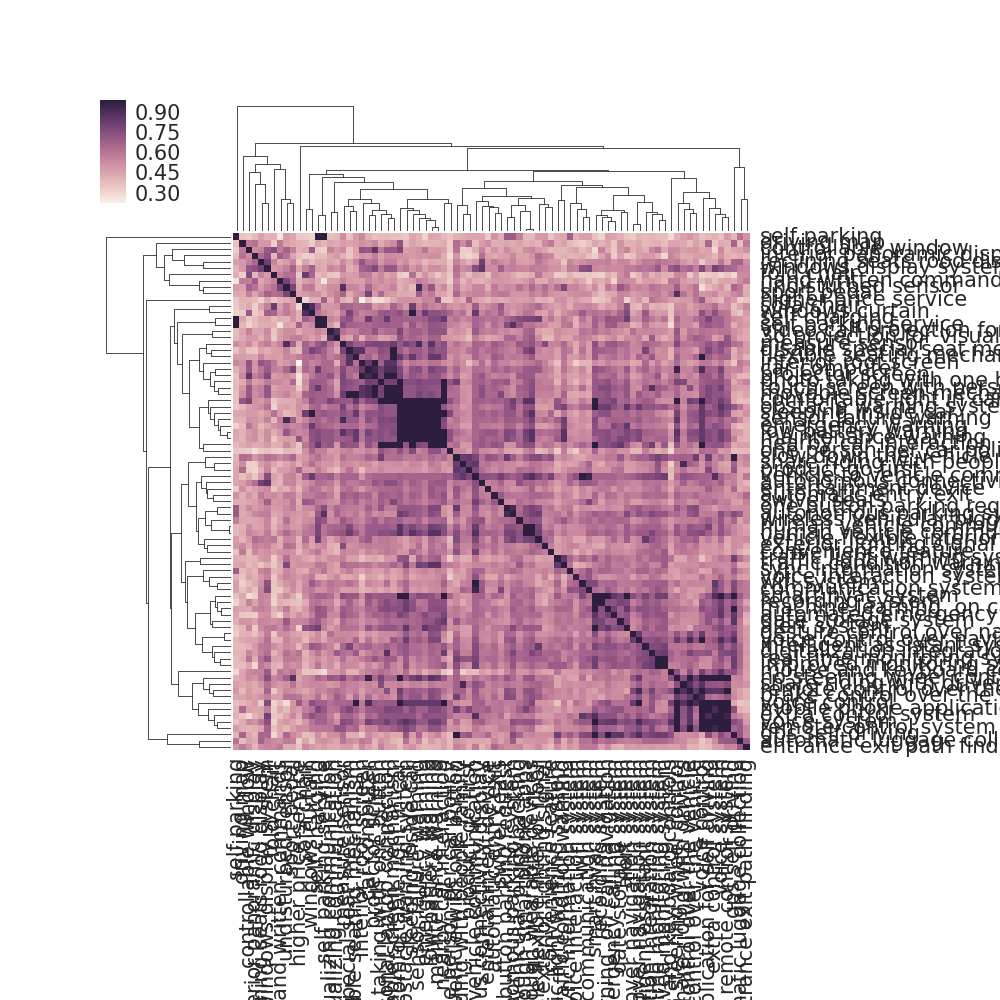
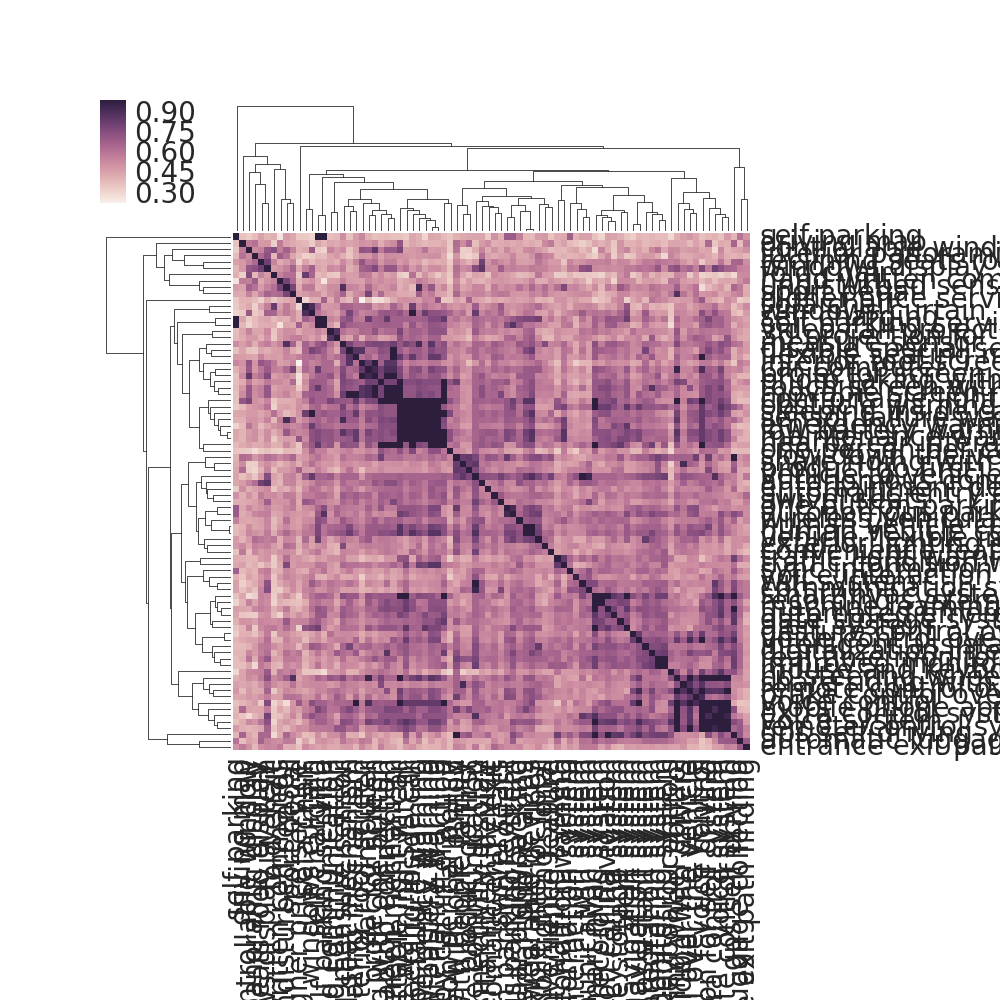
For the first draft withouth overlapping cluster

Changed region(s): [[0.217, 0.217, 1.0, 1.0], [0.124, 0.093, 0.217, 0.217]]

diff --git a/PlotBubble.py b/PlotBubble.py
@@ -70,6 +70,112 @@ def plotBubble(xindices, yindices, labels, xticklabels = None, yticklabels = Non
 	plt.axes().set_aspect('equal')
 	# plt.show()
 
+def plotSimpifiedBubble(xindices, yindices, labels, xticklabels = None, yticklabels = None, offset = 0.25, sort = False, xFilteredStr = None, yFilteredStr = None, showLabel = True, team_number = None):
+	assert len(xindices) == len(yindices)
+	if sort:
+		convx, convy = get_sorted_idx(xindices, yindices)
+		xindices = [convx[x] for x in xindices]
+		yindices = [convy[y] for y in yindices]
+
+		if xticklabels is not None:
+			xticklabels_ = xticklabels[:]
+			for i,tl in enumerate(xticklabels): xticklabels_[convx[i]] = tl
+			xticklabels = xticklabels_
+		if yticklabels is not None:
+			yticklabels_ = yticklabels[:]
+			for i,tl in enumerate(yticklabels): yticklabels_[convy[i]] = tl
+			yticklabels = yticklabels_
+
+	sns.set()
+	sns.set_style("darkgrid")
+	plt.figure(figsize=(9, 9))  # in inches
+
+	nx = max(xindices)+1
+	ny = max(yindices)+1
+	cnt = np.zeros([nx, ny])
+
+	xticklabels_ = [""]*len(xticklabels)
+	yticklabels_ = [""]*len(yticklabels)
+
+	if xFilteredStr != None:
+		try:
+			xFilteredIndex = xticklabels.index(xFilteredStr)
+		except Exception as e:
+			raise e
+
+		for x, y in zip(xindices, yindices): 
+			if x == xFilteredIndex:
+				cnt[x,y] += 1
+				xticklabels_[x] = xticklabels[x]
+				yticklabels_[y] = yticklabels[y]
+				
+				
+		xticklabels = xticklabels_
+		yticklabels = yticklabels_
+		
+
+	if yFilteredStr != None:
+		try:
+			yFilteredIndex = yticklabels.index(yFilteredStr)
+		except Exception as e:
+			raise e
+
+		for x, y in zip(xindices, yindices): 
+			if y == yFilteredIndex:
+				cnt[x,y] += 1
+				xticklabels_[x] = xticklabels[x]
+				yticklabels_[y] = yticklabels[y]
+		xticklabels = xticklabels_
+		yticklabels = yticklabels_
+
+	for x in range(nx):
+		for y in range(ny):
+			if cnt[x,y] != 0:
+				idx = [i for i,pos in enumerate(zip(xindices, yindices)) if pos[0]==x and pos[1]==y]
+				labels2draw = [labels[i] for i in idx]
+				angles = np.linspace(-np.pi/2, np.pi/2, num=len(labels2draw)+1)
+
+				plt.scatter(x,y,s=cnt[x,y]*400,c=sns.xkcd_rgb["denim blue"],alpha=0.5)
+
+				if showLabel:
+
+					if len(labels2draw)<2: r = 0
+					else:                  r = offset
+
+					for l, a in zip(labels2draw, angles):
+						# import pdb; pdb.set_trace()
+						x_ = x + np.cos(a)*r
+						y_ = y + np.sin(a)*r
+						plt.scatter(x_, y_,c=sns.xkcd_rgb["pale red"])
+						plt.annotate(l,
+							 xy=(x_, y_),
+							 xytext=(5, 2),
+							 textcoords='offset points',
+							 ha='right',
+							 va='bottom')
+	ax = plt.gca()
+	ax.set_xticks(range(nx))
+	ax.set_yticks(range(ny))
+
+	fig = plt.gcf()
+	fig.subplots_adjust(left=0.2)
+	if team_number != None:
+		fig.suptitle('Team ' + str(team_number),fontsize=20)
+
+	if showLabel:
+		if xticklabels is not None:
+			# ax.set_xticklabels(xticklabels, rotation=20, ha='right')
+			ax.set_xticklabels(xticklabels)
+		if yticklabels is not None:
+			ax.set_yticklabels(yticklabels)
+	else:
+		ax.set_xticklabels([""]*len(xticklabels))
+		ax.set_yticklabels([""]*len(yticklabels))
+
+	# plt.grid()
+	plt.xlabel("Hand-operated Clustering")
+	plt.ylabel("Machine Clustering")
+	plt.axes().set_aspect('equal')
 
 def get_sorted_idx(xindices, yindices):
 	nx = max(xindices)+1
@@ -106,7 +212,9 @@ def main():
 	h_labels_index = [0, 0, 0, 0, 0, 1, 2, 3, 3, 4, 0, 0, 1, 1, 5, 5, 6, 7, 3, 8, 0, 1, 9, 2, 10, 7, 7, 7, 8, 11, 0, 0, 0, 4, 4, 11, 10, 10, 12, 12, 13, 13, 13, 1, 2, 13, 13, 7, 13, 13, 13, 7, 0, 1, 9, 2, 7, 3, 8, 8, 11, 14, 0, 9, 2, 2, 5, 4, 8, 8, 14, 14, 10, 13, 13, 13, 13, 13, 7, 7, 7, 13]
 	h_labels = ['ALTERNATIVE CONTROL', 'CAR-TO-CAR CONNECTIVITY', 'COMFORT', 'NAVIGATION', 'PARKING', 'ENTRY & EXIT', 'EXTERNAL SIGNAL', 'LEISURE & ENTERTAINMENT', 'SCREEN & DISPLAYS', 'CLOUD TECHNOLOGY', 'IN-CAR COMMUNICATION', 'VOICE PROGRAM', 'PORTABLE DEVICE CONNECTIVITY', 'SAFETY', 'WARNING SYSTEM']
 	concept = range(len(m_labels_index))
-	plotBubble(h_labels_index,m_labels_index,concept,h_labels,m_labels,sort=True)
+	# plotBubble(h_labels_index,m_labels_index,concept,h_labels,m_labels,sort=True)
+	plotSimpifiedBubble(h_labels_index,m_labels_index,concept,h_labels,m_labels,xFilteredStr='COMFORT',showLabel=True,team_number=1)
+	# plotSimpifiedBubble(h_labels_index,m_labels_index,concept,h_labels,m_labels,yFilteredStr='use;projection',showLabel=True)
 	plt.show()
 
 def test():
@@ -118,4 +226,4 @@ def test():
 
 
 if __name__ == '__main__':
-	test()
+	main()

diff --git a/Main.py b/Main.py
@@ -84,7 +84,7 @@ class SWSCTester(object):
 
 		concept_index = range(1,len (concept_list)+1)
 
-		exportHM(concept_index,cm.concept_category_list, concept_labels, concept_list, "Human_machine_details_Team"+str(number))
+		# exportHM(concept_index,cm.concept_category_list, concept_labels, concept_list, "Human_machine_details_Team"+str(number))
 		exportHM2(cm.conceptList,concept_labels,"Human_manchine_details_des_Team"+str(number))
 
 		plotBubble(h_labels,m_labels,concept_index,xticklabels=cm.categoryList,yticklabels=h_ticklabel,sort=True)
@@ -92,7 +92,80 @@ class SWSCTester(object):
 		swsc.dendro_heat()
 		plt.savefig("Graph/Dendrogram/DendrogramTeam"+str(number))
 		plt.show()
+
+	def simplified_plot(self,number,xFilteredStr=None, yFilteredStr=None,showLabel=True):
+		from swsc import SWSC
+		from ConceptManager import ConceptManager as CM
+		# from PlotHM import plotHM
+		from PlotBubble import plotBubble, plotSimpifiedBubble
+		from HMcsv import exportHM,exportHM2
+
+		filename = "dataset/ConceptTeam" + str(number) + ".csv"
+		cm = CM(filename=filename)
+		swsc = SWSC(cm)
+
+		m_labels,concept_labels,h_ticklabel = swsc.label_clusters()
+		m_labels = [x-1 for x in m_labels]
+
+		h_labels = cm.category_index_list
+		concept_list = cm.concept_name_list
+
+		concept_index = range(1,len (concept_list)+1)
+
+		# plotBubble(h_labels,m_labels,concept_index,xticklabels=cm.categoryList,yticklabels=h_ticklabel,sort=True)
+		plotSimpifiedBubble(h_labels,m_labels,concept_index,xticklabels=cm.categoryList,yticklabels=h_ticklabel,sort=True,xFilteredStr=xFilteredStr,yFilteredStr=yFilteredStr,showLabel = showLabel,team_number=number)
+		con = ""
+		div = ""
+		labeled = ""
+		if xFilteredStr != None:
+			div = "Div"
+		if yFilteredStr != None:
+			con = "Con"
+		if showLabel:
+			labeled = "Labeled"
+		plt.savefig("Graph/HMPlot/SimplifiedHMPlotTeam"+con+div+labeled+str(number))
+		# plt.show()
+
 		
 
 if __name__ == '__main__':
-	SWSCTester().export(11)
+	SWSCTester().export(1)
+	# SWSCTester().simplified_plot(1,yFilteredStr="car;people",showLabel=True)
+	# SWSCTester().simplified_plot(7,xFilteredStr="Met-eared",showLabel=True)
+	# SWSCTester().simplified_plot(6,xFilteredStr="Children Friendly Designs",showLabel=True)
+	# SWSCTester().simplified_plot(4,yFilteredStr="app;challenge",showLabel=True)
+	
+
+	#Team1
+	# SWSCTester().simplified_plot(1,yFilteredStr="car;people",showLabel=False)
+	# SWSCTester().simplified_plot(1,xFilteredStr="SAFETY",showLabel=False)
+
+	#Team2
+	# SWSCTester().simplified_plot(2,yFilteredStr="vehicle",showLabel=False)
+	# SWSCTester().simplified_plot(2,xFilteredStr="Controller",showLabel=False)
+
+	#Team4
+	# SWSCTester().simplified_plot(4,yFilteredStr="glasses;display",showLabel=False)
+	# SWSCTester().simplified_plot(4,xFilteredStr="service",showLabel=False)
+
+	#Team6
+	# SWSCTester().simplified_plot(6,yFilteredStr="sculpture;tail",showLabel=False)
+	# SWSCTester().simplified_plot(6,xFilteredStr="Modern Wind Farms",showLabel=False)
+
+	#Team7
+	# SWSCTester().simplified_plot(7,yFilteredStr="caps;water",showLabel=False)
+	# SWSCTester().simplified_plot(7,xFilteredStr="Met-eared",showLabel=False)
+
+	#Team8
+	# SWSCTester().simplified_plot(8,yFilteredStr="arrays;patch",showLabel=False)
+	# SWSCTester().simplified_plot(8,xFilteredStr="Improve the effectiveness of drug delivery",showLabel=False)
+
+	#Team9
+	# SWSCTester().simplified_plot(9,yFilteredStr="structure;structures",showLabel=False)
+	# SWSCTester().simplified_plot(9,xFilteredStr="Tensportation",showLabel=False)
+
+	#Team11 Balloon Modifications
+	# SWSCTester().simplified_plot(11,yFilteredStr="vertebra;compression",showLabel=False)
+	# SWSCTester().simplified_plot(11,xFilteredStr="Balloon Modifications",showLabel=False)
+
+

diff --git a/NewPlot.py b/NewPlot.py
@@ -21,7 +21,7 @@ class Plot(object):
 
 	def heatmap(self,dist_matrix,labels):
 		import seaborn as sns
-		sns.set(font_scale=1.5)
+		sns.set(font_scale=2)
 		
 		sns.clustermap(dist_matrix,
 							method='average',

diff --git a/GensimEmbedding.py b/GensimEmbedding.py
@@ -218,6 +218,6 @@ if __name__ == '__main__':
 	# print (model.similarity('car','driver'))
 	# similarity_tester()
 	# simplified_data_set()
-	print (model['word'])
+	print (model['tensegrity'])
 
 
